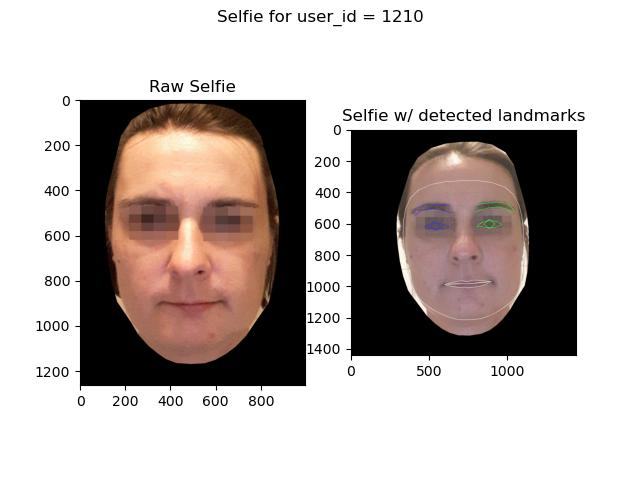
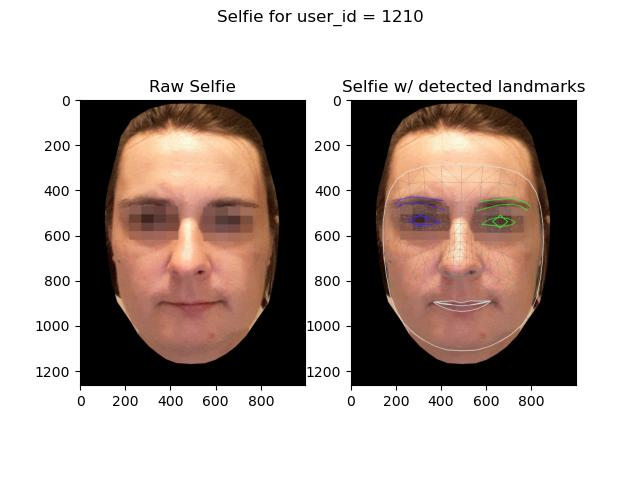
Fix mixups with selfie displays

Changed region(s): [[0.4688, 0.1562, 0.9062, 0.8438], [0.4688, 0.375, 0.5312, 0.625], [0.4688, 0.6562, 0.5312, 0.6875]]

diff --git a/presentation_plots.py b/presentation_plots.py
@@ -30,7 +30,7 @@ options = face_landmarker_options(
 landmarker = vision.FaceLandmarker.create_from_options(options)
 
 # %%
-user_id = 2221
+user_id = 5336
 path_user_selfies = path_selfies / Path(f"{user_id}")
 user_selfies = sorted(path_user_selfies.glob("*.jpg"))
 
@@ -65,9 +65,9 @@ ax1.imshow(selfie_2.numpy_view())
 ax1.set_title("Raw Selfie")
 
 
-detection_result_1 = landmarker.detect(selfie_1)
-annotated_selfie_1 = draw_landmarks_on_image(selfie_1.numpy_view(), detection_result_1)
-ax2.imshow(annotated_selfie_1)
+detection_result_2 = landmarker.detect(selfie_2)
+annotated_selfie_2 = draw_landmarks_on_image(selfie_2.numpy_view(), detection_result_2)
+ax2.imshow(annotated_selfie_2)
 ax2.set_title("Selfie w/ detected landmarks")
 
 fig.suptitle(f"Selfie for {user_id = }")
